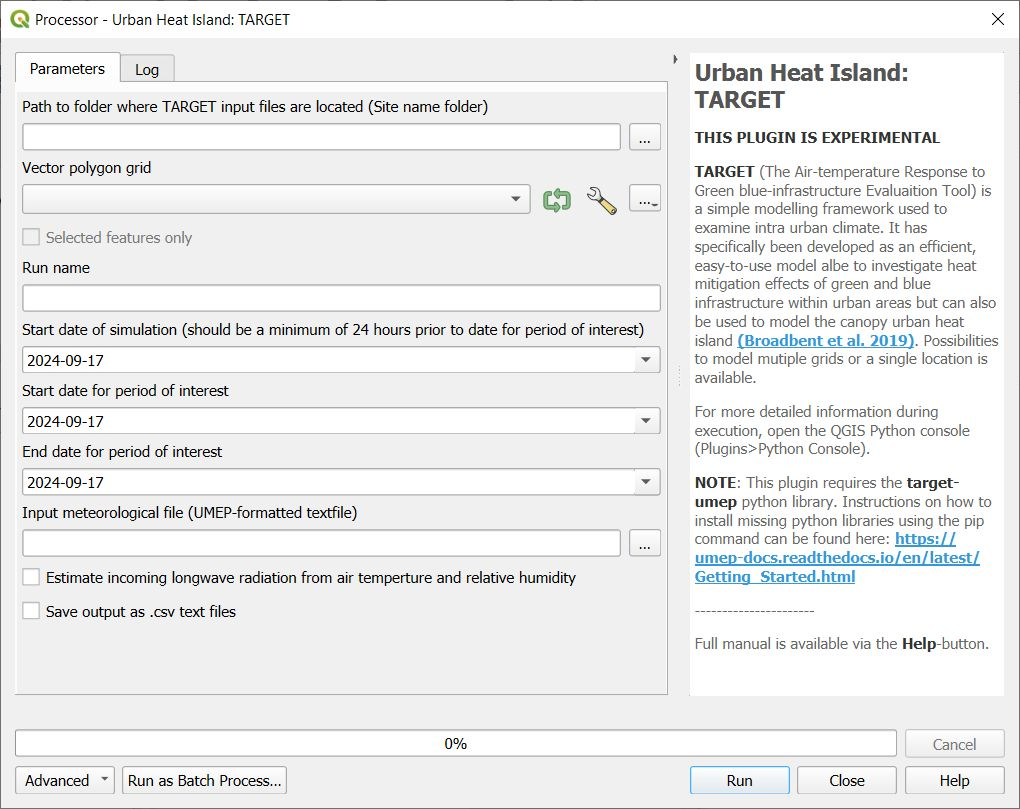
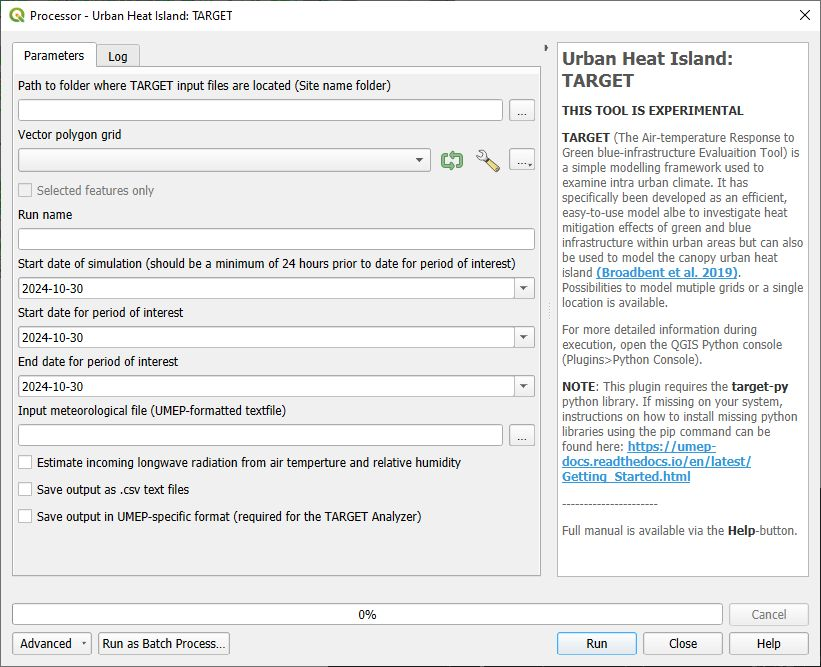
Added more target and corrections

diff --git a/docs/source/pre-processor/Urban Land Cover Land Cover Reclassifier.rst b/docs/source/pre-processor/Urban Land Cover Land Cover Reclassifier.rst
@@ -44,8 +44,9 @@ Urban Land Cover: Land Cover Reclassifier
 
 
 * Dialog box
-        .. figure:: /images/Landcoverreclassifier.png
+        .. figure:: /images/Landcoverreclassifier.jpg
             :align: center
+            :width: 75%
 
             The dialog for the Land Cover Reclassifier
 
@@ -56,6 +57,7 @@ Urban Land Cover: Land Cover Reclassifier
 
       * - upper
         - Select raster land cover dataset to be reclassified into the UMEP land cover classes
+           - **Include additional land cover classes used in TARGET**: If this is ticked in, two more classes appear that is used in the `TARGET` tool.
       * - middle
         - Choose interval values to be classified into a certain UMEP land cover class.
            - Not all lines and boxes need to be filled in, but multiple lines are available in case many different intervals are to be classified as the same land cover class.
@@ -64,6 +66,41 @@ Urban Land Cover: Land Cover Reclassifier
 
 * Input raster
      Any valid raster dataset (float or integer) loaded into QGIS will appear in this dropdown list. Choose the one that includes your land cover information.
+     
+* Include additional land cover classes used in TARGET
+     If this is ticked in, two more classes appear that is used in the `TARGET` tool. TARGET land cover infromation is in somewhat different classes that the standard UMEP classes. The updated Land Cover Reclassifier includes possibilities to pre-process data into all nine classes used by TARGET. In the table below you see the classes used and how they relate to the standard UMEP classes:
+
+    .. list-table::
+       :widths: 20 20 60
+       :header-rows: 1
+
+       * - TARGET class
+         - UMEP class
+         - Comment
+       * - roof
+         - buildings
+         -  
+       * - road
+         - paved
+         - Total impervious surface in UMEP 
+       * - watr
+         - water
+         -  
+       * - conc
+         - NA
+         - Part of paved. Impervious in TARGET is both divided up between road and concrete. 
+       * - Veg
+         - Conifer and Deciduous trees
+         - TARGET only have on class of trees whereas UMEP as two.
+       * - dry
+         - grass
+         - TARGET divides grass into two classes either dry or completely wet.
+       * - irr
+         - grass
+         - TARGET divides grass into two classes either dry or completely wet.
+       * - NA
+         - bare soil
+         - TARGET has no bare soil cless. Bare soil becomes dry grass if UMEP land cover is used.
 
 * Land cover classes
      Fill the interval values that you want to reclassify into a certain cover class. All values not included will appear as 0 in the output land cover raster. This should be avoided.

diff --git a/docs/source/pre-processor/Urban Energy Balance SUEWS Database Prepare.rst b/docs/source/pre-processor/Urban Energy Balance SUEWS Database Prepare.rst
@@ -16,6 +16,10 @@ Urban Energy Balance: SUEWS Database Prepare
          - Gothenburg
        * - Fredrik Lindberg
          - Gothenburg
+       * - Ting Sun
+         - London
+       * - Sue Grimmond
+         - Reading
 
 * Introduction:
     The pre-processor *SUEWS Prepare Database* make use of the database used in `SUEWS Database Manager <SUEWSDatabase>` to generate surface-related input data from geographical data for `SUEWS <SUEWSAdvanced>`, the Surface Urban Energy and Water Balance Scheme (`Järvi et al. 2011 <https://www.sciencedirect.com/science/article/pii/S0022169411006937?via%3Dihub>`__). SUEWS (`link to manual <https://suews.readthedocs.io/en/latest/>`__) simulates the urban radiation, energy and water balances using commonly measured/modelled meteorological variables and information about the surface cover. It utilizes an evaporation-interception approach (`Grimmond and Oke 1991 <https://agupubs.onlinelibrary.wiley.com/doi/10.1029/91WR00557>`__), similar to that used in forests, to model evaporation from urban surfaces. The surface state for each surface type at each time step is calculated from the running water balance of the canopy where the evaporation is calculated from the Penman-Monteith equation. The soil moisture below each surface type (excluding water) is also taken into account.
@@ -26,7 +30,7 @@ Urban Energy Balance: SUEWS Database Prepare
    `MetPreprocessor`, `LandCoverFraction(Grid)`, `MorphometricCalculator(Grid)`, `SUEWSDatabase`, `ERA5`, `SUEWSAdvanced`, `SUEWSAnalyser`
 
 * Dialog box：
-    .. figure:: /images/SUEWS_DBPrep_main.jpg
+    .. figure:: /images/SUEWS_DBPrepare_main.jpg
         :width: 100%
         :align: center
 

diff --git a/docs/source/processor/Wind model URock.rst b/docs/source/processor/Wind model URock.rst
@@ -23,7 +23,7 @@ Urban Wind Fields: URock
    `MetPreprocessor`, `ERA5`, `URockPrepare`
 
 * Dialog box
-   .. figure:: /images/URock_v2023a.jpg
+   .. figure:: /images/URock_v2023a.png
       :width: 100%
       :align: center
 
@@ -72,6 +72,8 @@ Urban Wind Fields: URock
         - For each height specified in 'Output wind height', a vector file is saved. It contains four fields: 'HWS' the horizontal wind speed (m/s), 'WS' the absolute wind speed (m/s), 'VWS' the vertical wind speed (m/s) and 'HWD' the horizontal wind direction (° from North clock-wise)
       * - Save 2D wind speed in a NetCDF file
         - Save the URock output in a NetCDF file split into two groups containing: (i) 3D wind field for the whole domain, (ii) the vertical wind speed profile used as input
+      * - Java environment path (should be set automastically)
+        - Java is used for some calculation and Python needs to know what is the Java environment path on your computer (a default value should be identified automatically)
       * - Directory to save the outputs
         - A folder path where will be saved the output files
 

diff --git a/docs/source/processor/Urban Heat Island TARGET.rst b/docs/source/processor/Urban Heat Island TARGET.rst
@@ -50,7 +50,9 @@ Urban Heat Island: TARGET
       * - Estimate incoming longwave radiation from air temperature and realtive humidity.
         - If incoming longwave radiation is missing from the forcing data, tick this box and L\ :sub:`down` will be calculated according to `Loridan et al. 2011  <https://journals.ametsoc.org/view/journals/apme/50/1/2010jamc2474.1.xml?tab_body=pdf>`__.
       * - Save output as .csv text files
-        - Tick this in if you are interested in continuing analysis from this tool using csv-files. Output is also automatically saved in .npy-format, a standard binary file used by NumPy in Python.
+        - Output is also automatically saved in .npy-format, a standard binary file used by NumPy in Python. Tick this in if you are interested in continuing analysis from this tool using csv-files coming directly out from the model. 
+      * - Save output in UMEP specific format (required for the TARGET Analyzer)
+        - Tick this in if you like to use the analyzers connected to the TARGET model in the Post-processor.
 
 * Run
     Starts the calculations. 

diff --git a/docs/source/pre-processor/Urban Energy Balance SUEWS Database Manager.rst b/docs/source/pre-processor/Urban Energy Balance SUEWS Database Manager.rst
@@ -14,6 +14,10 @@ Urban Energy Balance: SUEWS Database Manager
          - Institution
        * - Oskar Bäcklin
          - Gothenburg
+       * - Ting Sun
+         - London
+       * - Sue Grimmond
+         - Reading
        * - Fredrik Lindberg
          - Gothenburg
 
@@ -115,7 +119,7 @@ Urban Energy Balance: SUEWS Database Manager
         Building type (found in *Land Cover*-tab) connected to the urban typology.
 
     * Check compability:
-        Click this to see if name already exist in the database.
+        Click this to see if name allready exist in the database.
         
     * Generate New Type:
         If you pass the compability test, click this button to add your new typology to the database.

diff --git a/docs/source/pre-processor/Meteorological Data MetPreprocessor.rst b/docs/source/pre-processor/Meteorological Data MetPreprocessor.rst
@@ -21,7 +21,7 @@ Meteorological Data: MetPreprocessor
 * **Dialog box**
 .. figure::  /images/MetPreProcessor.jpg
 
- Interface for inputting an ascii data file into the correct format for SUEWS
+ Interface for inputting an ascii data file into the correct format for UMEP
 
 * **Dialog sections**
 .. list-table::
